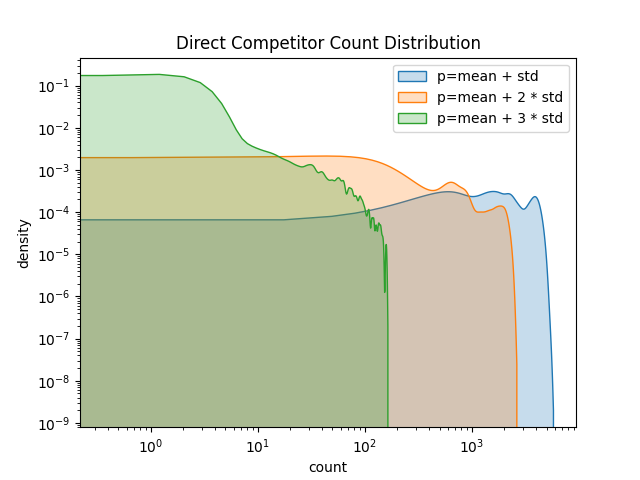
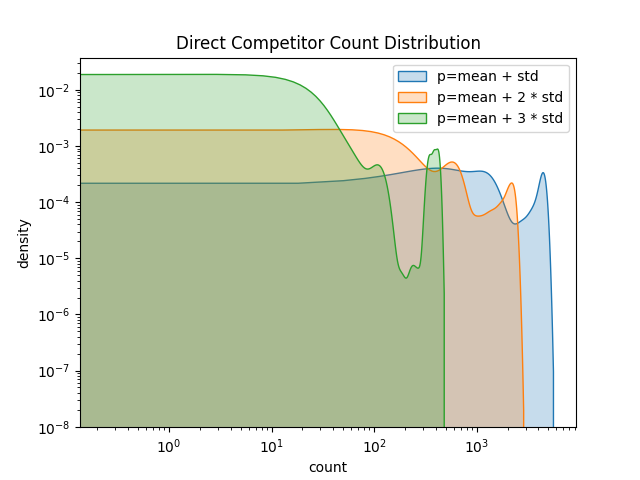
fix bug: step3 & step4

diff --git a/src/4_graph_dis.py b/src/4_graph_dis.py
@@ -1,0 +1,198 @@
+import numpy as np
+import torch
+import networkx as nx
+import logging
+
+logging.basicConfig(level=logging.INFO, format='%(asctime)s - %(name)s - %(levelname)s - %(message)s')
+
+from utils import *
+
+
+def dp_competitor(p):
+    """
+    直接竞争者 间接竞争者检测
+    :return:
+    """
+    with open(f'../data/outputs/node2integrate_set_list_{p}.json', 'r') as f:
+        node2integrate_set_list = json.load(f)
+
+    node2direct_competitor = defaultdict(list)
+    node2potential_competitor = defaultdict(list)
+
+    for target_index, integrate_set_list in node2integrate_set_list.items():
+        if len(integrate_set_list) == 0:
+            continue
+        for integrate_set in integrate_set_list:
+            if len(integrate_set) == 1:
+                # 直接竞争者
+                node2direct_competitor[target_index].append(integrate_set[0])
+            else:
+                # 潜在竞争者-集团
+                node2potential_competitor[target_index].append(integrate_set)
+
+    with open(f'../data/outputs/node2direct_competitor_{p}.json', 'w') as f:
+        json.dump(node2direct_competitor, f)
+    with open(f'../data/outputs/node2potential_competitor_{p}.json', 'w') as f:
+        json.dump(node2potential_competitor, f)
+
+
+def set_list(node_list):
+    """
+    list去重
+    :param node_list:
+    :return:
+    """
+    return list(set(node_list))
+
+
+def get_mean_vec(node_list, node2vec):
+    """
+    获取平均向量
+    :param node_list:
+    :param node2vec:
+    :return:
+    """
+    vec = node2vec[node_list]
+    vec = vec[torch.sum(vec, dim=1) != 0]
+    return torch.mean(vec, dim=0)
+
+
+def tr_sim(node_list1, node_list2, node2vec):
+    """
+    计算相似度
+    归一化之后的向量，不需要除以模长
+    :param node_list1:
+    :param node_list2:
+    :param node2vec:
+    :return:
+    """
+    vec1 = get_mean_vec(node_list1, node2vec)
+    vec2 = get_mean_vec(node_list2, node2vec)
+    return torch.dot(vec1, vec2)
+
+
+def link_filter(node_list, link_list):
+    """
+    过滤link
+    :param node_list:
+    :param link_list:
+    :return:
+    """
+    return [link for link in link_list if link[0] in set(node_list) or link[1] in set(node_list)]
+
+
+def get_sub_graph(node_list, link_list):
+    """
+    获取子图
+    :param node_list:
+    :param link_list:
+    :return:
+    """
+    sub_g = nx.Graph()
+    link_list_filter = link_filter(node_list, link_list)
+    sub_g.add_edges_from(link_list_filter)
+    return sub_g
+
+
+def get_graph_dis(node_list1, node_list2, link_list):
+    """
+    计算图距离
+    :param node_list1:
+    :param node_list2:
+    :param link_list:
+    :return:
+    """
+    G1 = get_sub_graph(node_list1, link_list)
+    G2 = get_sub_graph(node_list2, link_list)
+    return nx.graph_edit_distance(G1, G2)
+
+
+def get_plasticity_single(target, node_p, integrate_set, link_list, node_core2neighbor, node2vec):
+    """
+    计算图距离
+    :param target:
+    :param node_p:
+    :param integrate_set:
+    :param link_list:
+    :param node_core2neighbor:
+    :param node2vec:
+    :return:
+        sim_tr_old
+        sim_tk_new
+        graph_dis
+    """
+    # 1.rt rk_old rk_new
+    rt_node_list = set_list([target] + node_core2neighbor[target])
+    rk_old_node_list = set_list([node_p] + node_core2neighbor[node_p])
+    rk_new_node_list = set_list([node_p] + integrate_set + node_core2neighbor[node_p])
+    # 2. sim
+    sim_tr_old = tr_sim(rt_node_list, rk_old_node_list, node2vec)
+    sim_tr_new = tr_sim(rt_node_list, rk_new_node_list, node2vec)
+    # 3. graph_dis
+    graph_dis = get_graph_dis(rk_old_node_list, rk_new_node_list, link_list)
+    return sim_tr_old, sim_tr_new, 1 / graph_dis
+
+
+def get_plasticity(p):
+    """
+    计算指标
+
+    :return:
+    target_node:
+        node:
+            [
+                {
+                    integrate_set: [node]
+                    sim_tr_old: float
+                    sim_tr_new: float
+                    plasticity(graph_dis): float
+
+                }
+            ]
+    """
+    # 1. 节点清理
+    logging.info('1. node clean')
+    # 获取核心索引
+    logging.info('1.1 get node core')
+    node_index2node_core, node_core2node_index = get_node_core()
+    # sc转换
+    logging.info('1.2 trans sc')
+    link_list = sc_trans(node_core2node_index)
+    # 2. 节点邻域统计
+    logging.info('2. get neighbor')
+    node_core2neighbor = get_neighbors(node_index2node_core, link_list)
+
+    with open(f'../data/outputs/node2potential_competitor_{p}.json', 'r') as f:
+        node2potential_competitor = json.load(f)
+
+    node2potential_competitor_plasticity = defaultdict(lambda: defaultdict(list))
+    node2vec = np.load('../data/inputs/node_base2vec_mix_max_average.npy')
+    node2vec = torch.tensor(node2vec)
+    # 归一化
+    node2vec = node2vec / torch.norm(node2vec, dim=1, keepdim=True)
+
+    for target, integrate_set_list in node2potential_competitor.items():
+        for integrate_set in integrate_set_list:
+            for node_p in integrate_set:
+                # 计算指标
+                sim_tr_old, sim_tr_new, plasticity = get_plasticity_single(target, node_p, integrate_set, link_list,
+                                                                           node_core2neighbor, node2vec)
+                node2potential_competitor_plasticity[target][node_p].append(
+                    {
+                        'integrate_set': integrate_set,
+                        'sim_tr_old': sim_tr_old.item(),
+                        'sim_tr_new': sim_tr_new.item(),
+                        'plasticity': plasticity
+                    }
+                )
+
+    with open(f'../data/outputs/node2potential_competitor_plasticity_{p}.json', 'w') as f:
+        json.dump(node2potential_competitor_plasticity, f)
+
+
+if __name__ == "__main__":
+    threshold = 0.5
+    dp_competitor(threshold)
+    logging.info("Direct competitor and potential competitor detected successfully.")
+    get_plasticity(threshold)
+    logging.info("Plasticity calculated successfully.")

diff --git a/src/3_competitor_trans_set_.py b/src/3_competitor_trans_set_.py
@@ -1,7 +1,9 @@
 import numpy as np
 import torch
 import logging
-from collections import defaultdict
+import json
+import torch.multiprocessing as mp
+from functools import partial
 
 logging.basicConfig(level=logging.INFO, format='%(asctime)s - %(name)s - %(levelname)s - %(message)s')
 
@@ -35,20 +37,21 @@ def get_max_index(sim, remove_list):
     """
     sim[remove_list] = float('-inf')
     max_index = torch.argmax(sim)
-    return max_index.item()
+    return max_index
 
 
-def get_integrate_set_list(target_index, tech_resource, dim, p):
+def get_integrate_set_list(target_index, tech_resource, p):
     """
     get integrate set list
     :param target_index:
     :param tech_resource:
-    :param dim:
     :param p:
     :return:
     """
+    logging.info('---------- target_index: %s ----------', target_index)
     integrate_set_list = []
     step_list = []
+    tech_resource = tech_resource.cuda()
 
     remove_list = [target_index]
     target = tech_resource[target_index]
@@ -56,29 +59,36 @@ def get_integrate_set_list(target_index, tech_resource, dim, p):
     while True:
         # get sim
         sim = get_sim(target, tech_resource, step_list)
-        logging.info('  sim: %s', sim[target_index])
         # get integrate set
-        integrate_set = torch.nonzero(sim > p).squeeze(1).numpy().tolist()
+        integrate_set = torch.nonzero(sim > p).squeeze(1).cpu().numpy().tolist()
         integrate_set = [index for index in integrate_set if index not in remove_list]
-        logging.info('  integrate_set: %s', integrate_set)
+        # logging.info('  integrate_set: %s', integrate_set)
         if len(integrate_set) > 0:
             # not empty
             # 可以达成目标
             for index in integrate_set:
-                integrate_set_list.append(step_list + [index.item()])
-            logging.info('  integrate_set: %s', integrate_set)
+                integrate_set_list.append(step_list + [index])
+            # logging.info('  integrate_set: %s', integrate_set)
+            remove_list += step_list
+            step_list = []
             remove_list += integrate_set
         else:
             # empty
-            index_max = get_max_index(sim, remove_list)
+            index_max = get_max_index(sim, remove_list).cpu().item()
             step_list.append(index_max)
             remove_list.append(index_max)
-            logging.info('  step_list: %s', step_list)
+            # logging.info('  step_list: %s', step_list)
 
-        if len(remove_list) == tech_resource.shape[0]:
+        if len(step_list) >= 10:
+            # 这里增加一个重要的假设：如果step_list长度超过10，更换起点
+            remove_list += [step_list[0]]
+            step_list = []
+
+        if len(remove_list) >= tech_resource.shape[0]:
             break
+        # logging.info('  remove_list: %s', len(remove_list))
 
-    return integrate_set_list
+    return target_index, integrate_set_list
 
 
 def main():
@@ -88,26 +98,50 @@ def main():
     :return:
     node(target): node(potential): [node(to integrate)]
     """
-    p = 0.9
+    p = 0.5
     # load tech resource
     tech_resource = np.load('../data/inputs/node_base2tech_resource.npy')
     tech_resource = torch.tensor(tech_resource)
-    dim = tech_resource.shape[1]
     # get index torch.sum(tech_resource, dim=1) != 0
     index_list = torch.nonzero(torch.sum(tech_resource, dim=1) != 0).squeeze()
     index_list = index_list.numpy().tolist()
-    index_old2index_new = {index_old: index_new for index_new, index_old in enumerate(index_list)}
+    index_new2index_old = {index_new: index_old for index_new, index_old in enumerate(index_list)}
     tech_resource = tech_resource[index_list]  # 不存在 0 行
     # norm
     tech_resource = tech_resource / torch.norm(tech_resource, dim=1, keepdim=True)
-    node2competitor = dict()
+    # 2 float16
+    tech_resource = tech_resource.half()
+    num_nodes = tech_resource.shape[0]
+    # multi-process
+    fun = partial(get_integrate_set_list, tech_resource=tech_resource, p=p)
+    pool = mp.Pool(processes=16)
+    node2integrate_set_list = dict()
+    try:
+        result = pool.map(fun, range(100))
+        pool.close()
+        pool.join()
+        node2integrate_set_list = {target_index: integrate_set_list for target_index, integrate_set_list in result}
 
-    for target_index in index_list:
-        logging.info('---------- target_index: %s ----------', target_index)
-        # target_tech_resource: target_index -> nan
-        integrate_set_list = get_integrate_set_list(target_index, tech_resource, dim, p)
-        node2competitor[target_index] = integrate_set_list
+    except Exception as e:
+        logging.error(e)
+        pool.terminate()
+        pool.join()
+
+    # index_new2index_old
+    node2integrate_set_list_trans = dict()
+    for target_index, integrate_set_list in node2integrate_set_list.items():
+        target_index_old = index_new2index_old[target_index]
+        integrate_set_list_old = []
+        for integrate_set in integrate_set_list:
+            integrate_set_old = [index_new2index_old[index] for index in integrate_set]
+            integrate_set_list_old.append(integrate_set_old)
+        node2integrate_set_list_trans[target_index_old] = integrate_set_list_old
+
+    # save
+    with open(f'../data/outputs/node2integrate_set_list_{p}.json', 'w') as f:
+        json.dump(node2integrate_set_list_trans, f)
 
 
 if __name__ == "__main__":
+    # mp.set_start_method('spawn', force=True)
     main()

diff --git a/src/logging.md b/src/logging.md
@@ -20,20 +20,21 @@
 Tech resource calculated successfully.
 
 
-2024-12-30 14:17:23,747 - root - INFO - Estimate the threshold of similarity between two tech resources
-2024-12-30 14:17:23,747 - root - INFO -   tech_resource: torch.Size([12197, 1024])
-2024-12-30 14:17:23,763 - root - INFO -   tech_resource: torch.Size([12099, 1024])
-2024-12-30 14:17:24,392 - root - INFO -   upper_triangle: (73186851,)
-2024-12-30 14:17:26,520 - root - INFO -   JB test
-2024-12-30 14:17:26,520 - root - INFO -   p_value: 0.0
-2024-12-30 14:17:26,520 - root - INFO -   JS test: tech resource is not normal distribution
-2024-12-30 14:17:38,145 - root - INFO -   KS test
-2024-12-30 14:17:38,145 - root - INFO -   p_value: 0.0
-2024-12-30 14:17:38,145 - root - INFO -   KS test: tech resource is not normal distribution
-2024-12-30 14:17:41,894 - root - INFO -   mean: 0.11715796
-2024-12-30 14:17:42,096 - root - INFO -   std: 0.28859445
-2024-12-30 14:17:42,097 - root - INFO -   threshold_1: 0.40575242
-2024-12-30 14:17:42,097 - root - INFO -   threshold_2: 0.6943468675017357
-2024-12-30 14:17:42,097 - root - INFO -   threshold_3: 0.9829413220286369
+2025-01-02 20:15:31,929 - root - INFO - Estimate the threshold of similarity between two tech resources
+2025-01-02 20:15:32,174 - root - INFO -   tech_resource: torch.Size([12197, 1024])
+2025-01-02 20:15:32,189 - root - INFO -   tech_resource: torch.Size([12099, 1024])
+2025-01-02 20:15:32,932 - root - INFO -   upper_triangle: (73186851,)
+2025-01-02 20:15:35,044 - root - INFO -   JB test
+2025-01-02 20:15:35,044 - root - INFO -   p_value: 0.0
+2025-01-02 20:15:35,044 - root - INFO -   JS test: tech resource is not normal distribution
+2025-01-02 20:15:46,902 - root - INFO -   KS test
+2025-01-02 20:15:46,902 - root - INFO -   p_value: 0.0
+2025-01-02 20:15:46,902 - root - INFO -   KS test: tech resource is not normal distribution
+2025-01-02 20:15:50,706 - root - INFO -   mean: 0.17404702
+2025-01-02 20:15:50,913 - root - INFO -   std: 0.23080096
+2025-01-02 20:15:50,913 - root - INFO -   threshold: 0.40484798
+2025-01-02 20:15:51,094 - root - INFO -   threshold: 0.6356489360332489
+2025-01-02 20:15:51,282 - root - INFO -   threshold: 0.8664498925209045
 Threshold calculated successfully.
+
  
